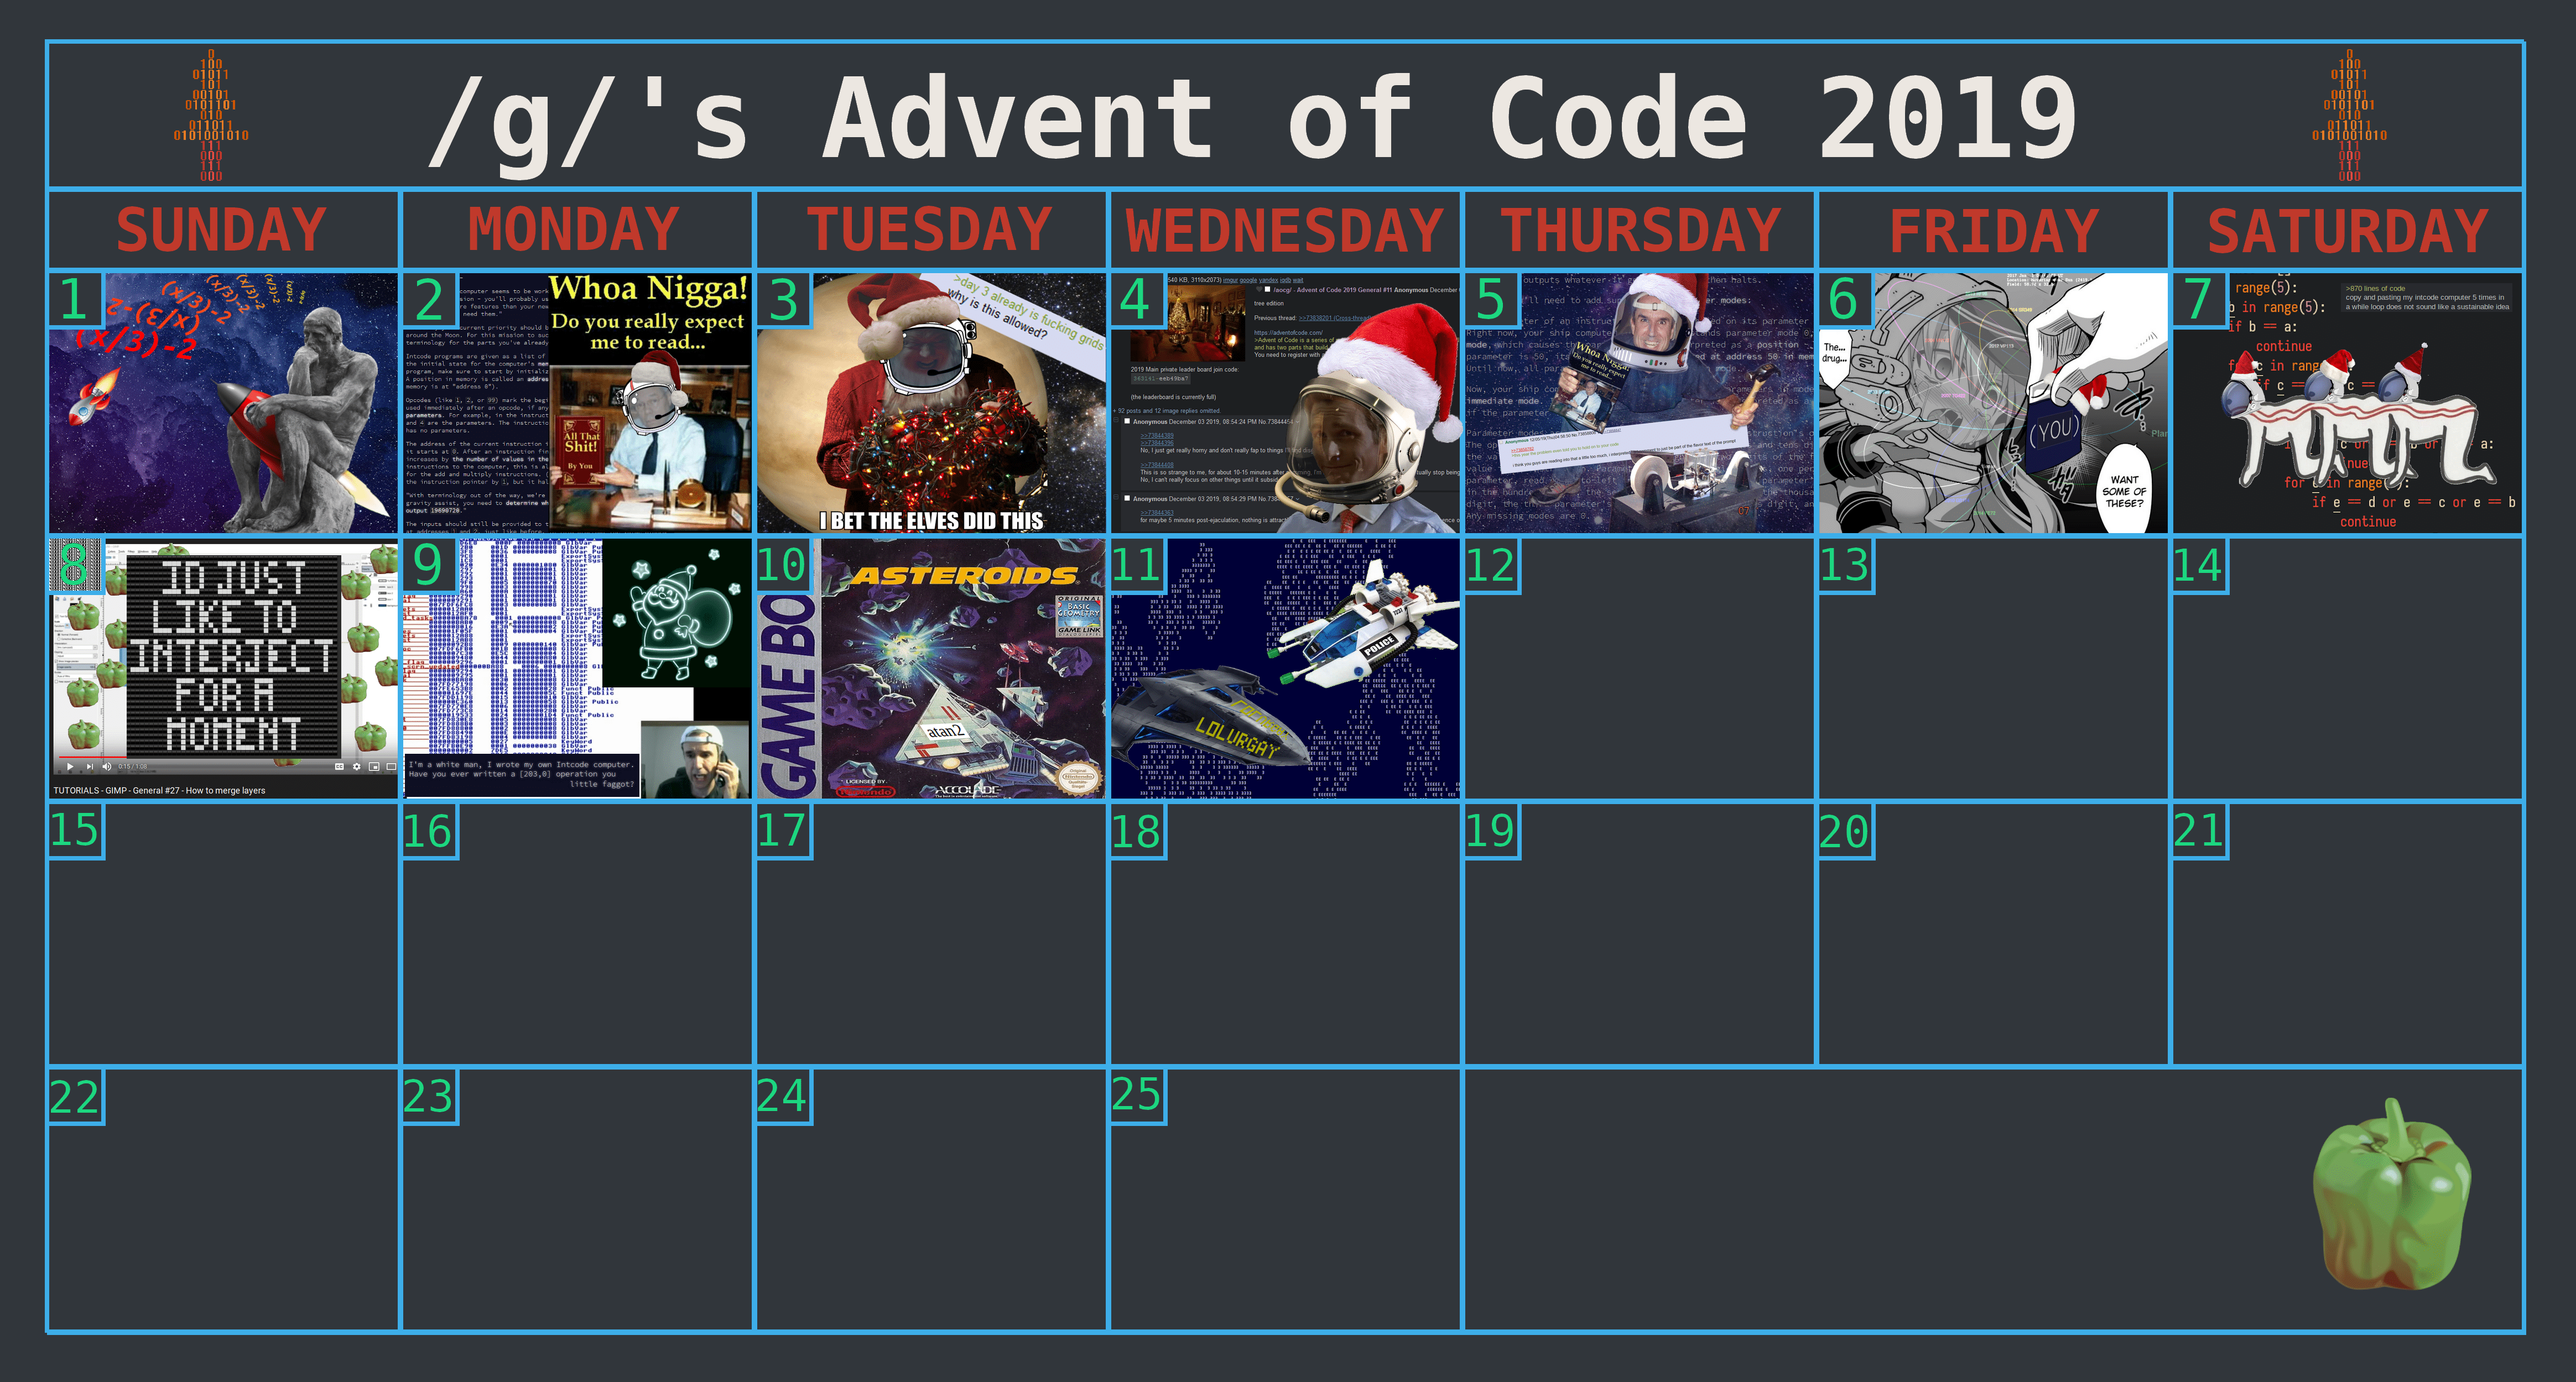
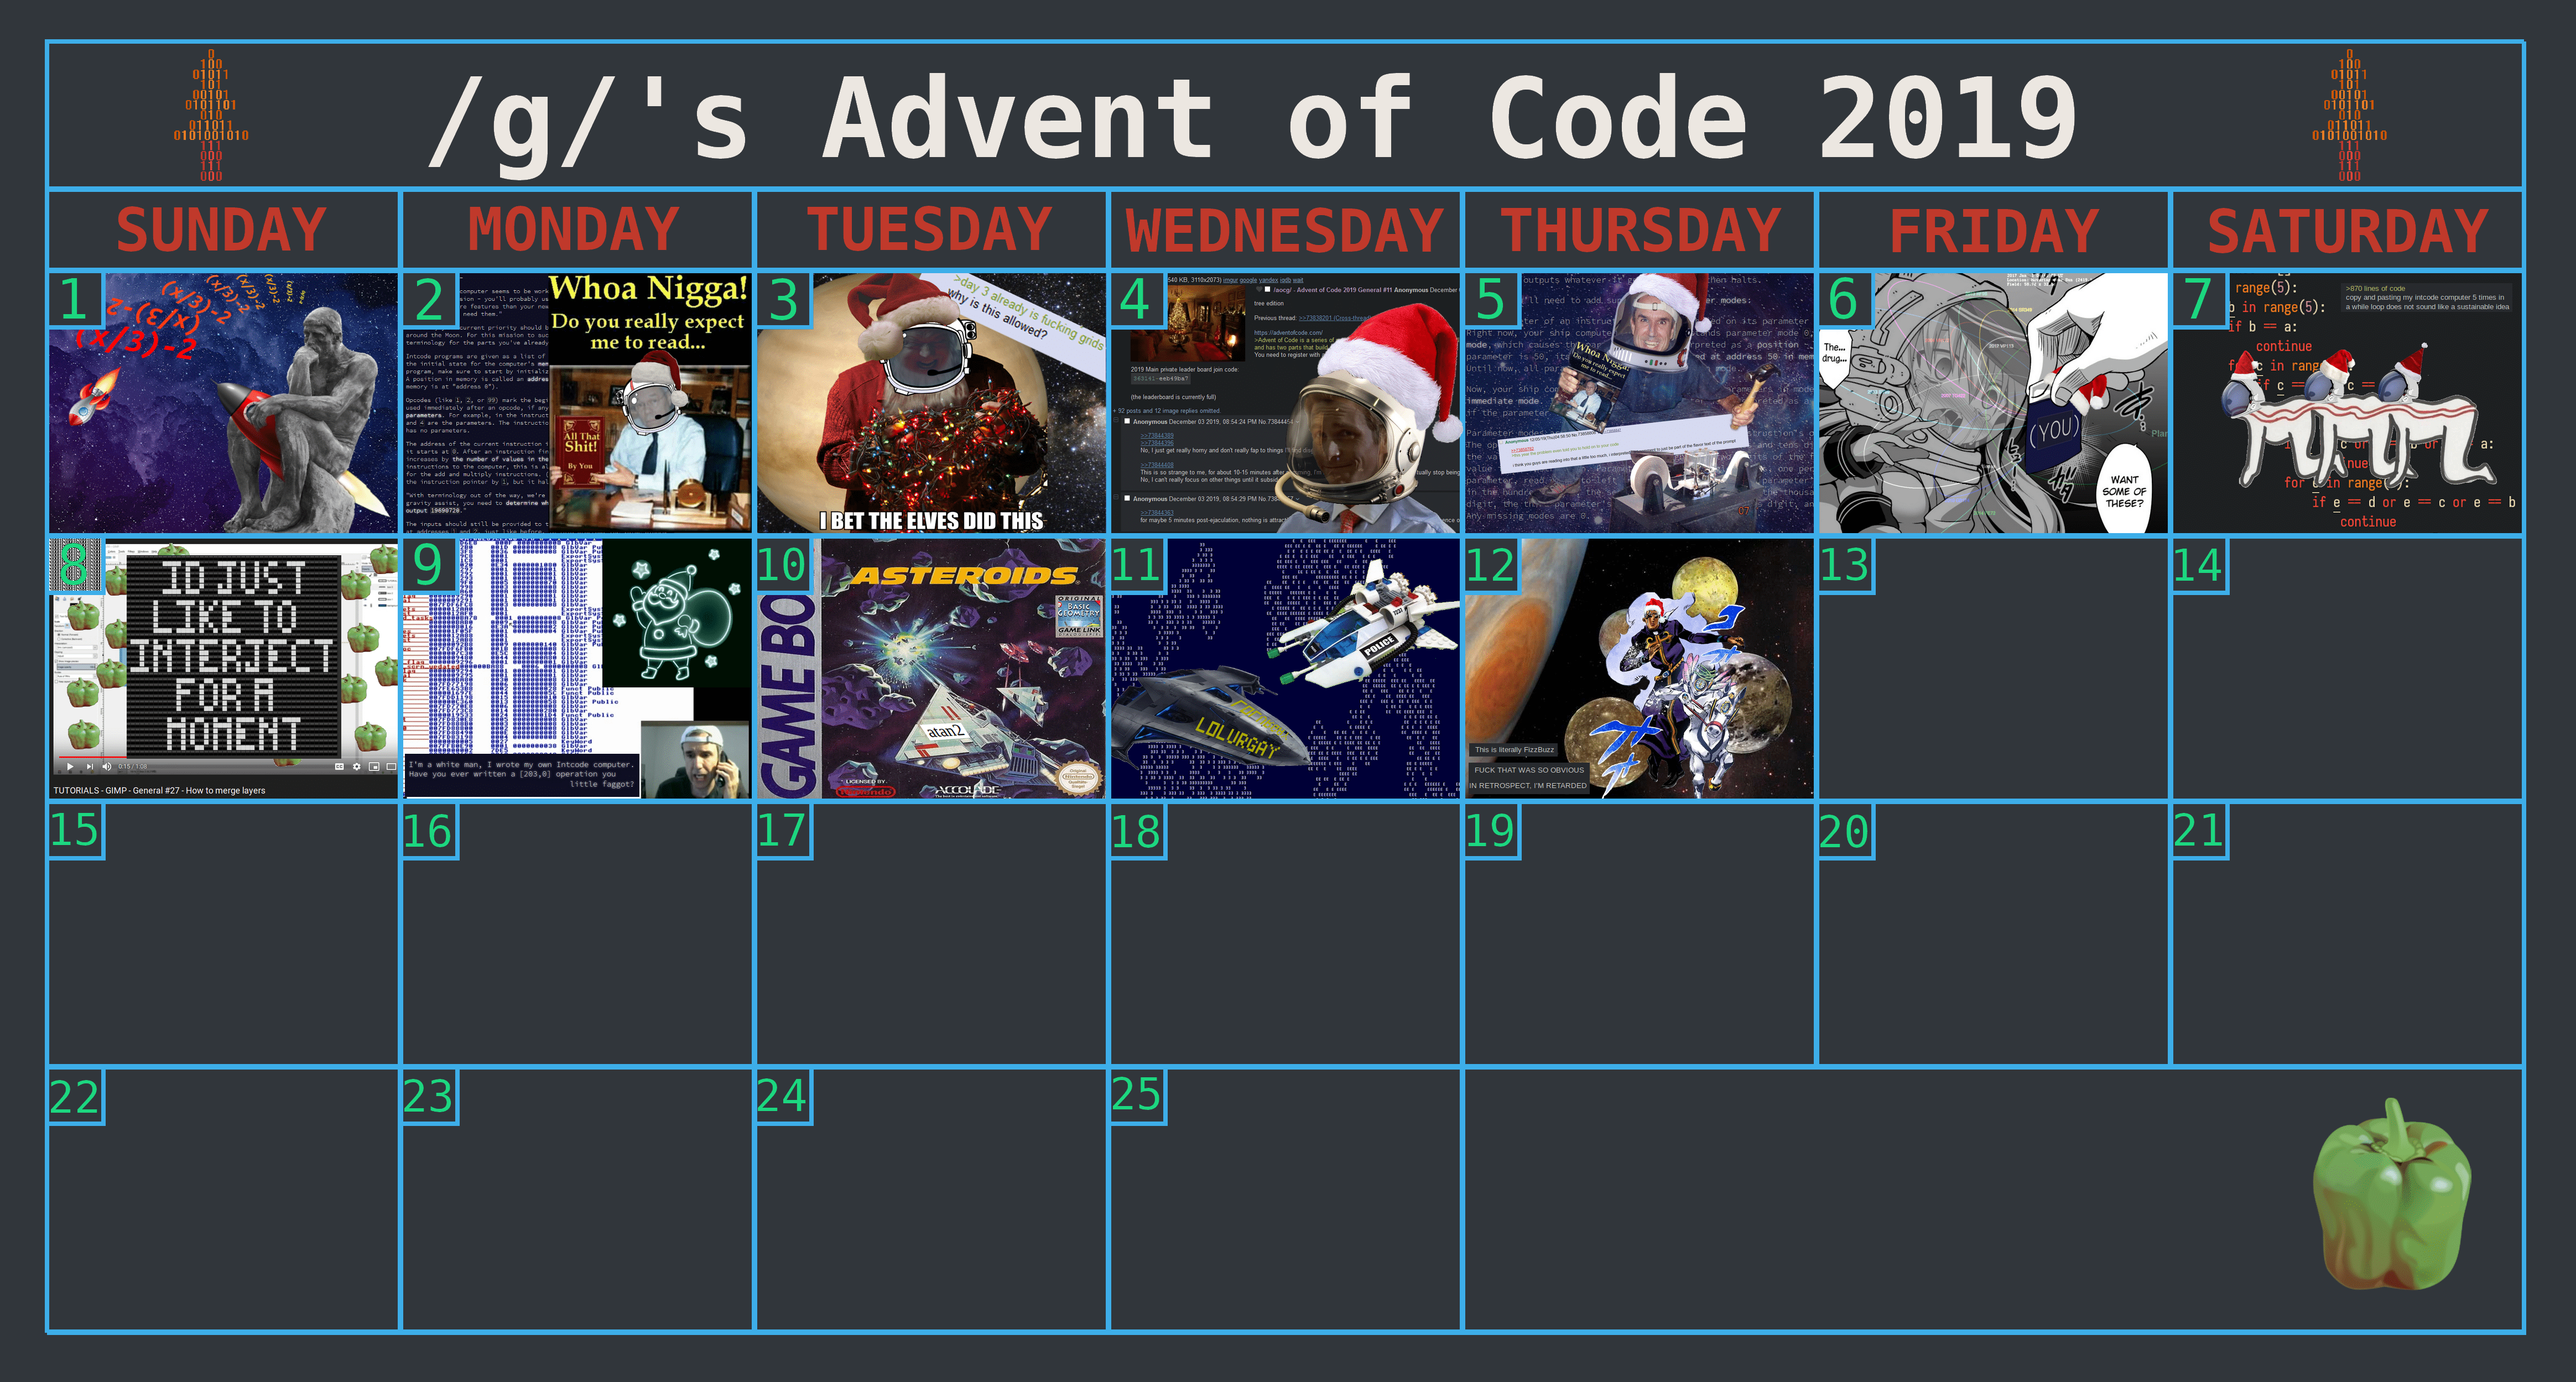
misc

diff --git a/README.md b/README.md
@@ -3,7 +3,7 @@ Status: Utterly Brainlet Filtered :joy_cat:
 ## Description
 Advent of Code is an Advent calendar of small programming puzzles for a variety of skill sets and skill levels that can be solved in any programming language you like. People use them as a speed contest, interview prep, company training, university coursework, practice problems, or to challenge each other.
 ## Calendar Progress
-- [ ] 2019: 11/25
+- [ ] 2019: 12/25
 - [x] 2018: 25/25
 - [ ] 2017: 07/25
 - [ ] 2016: 03/25
